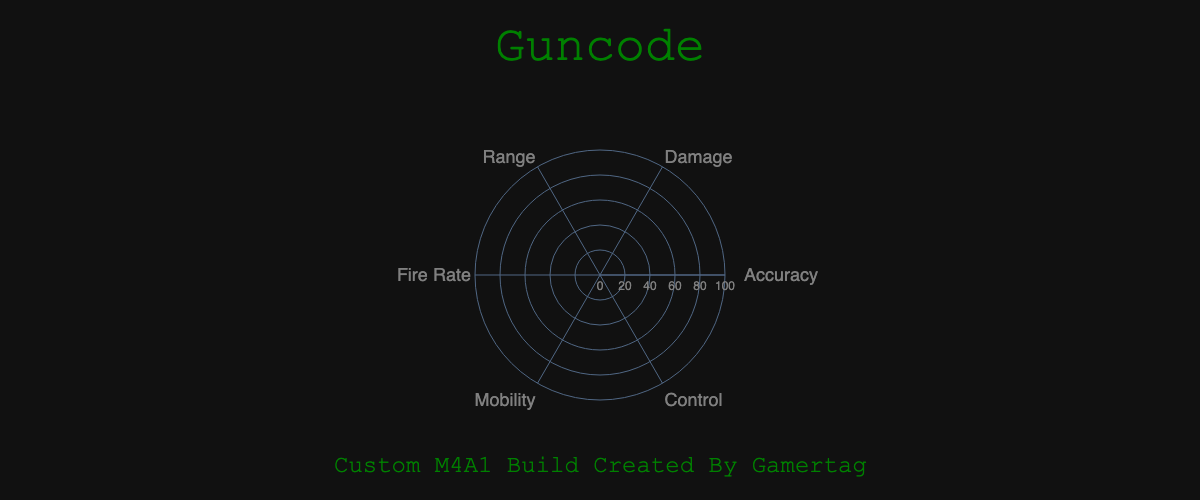
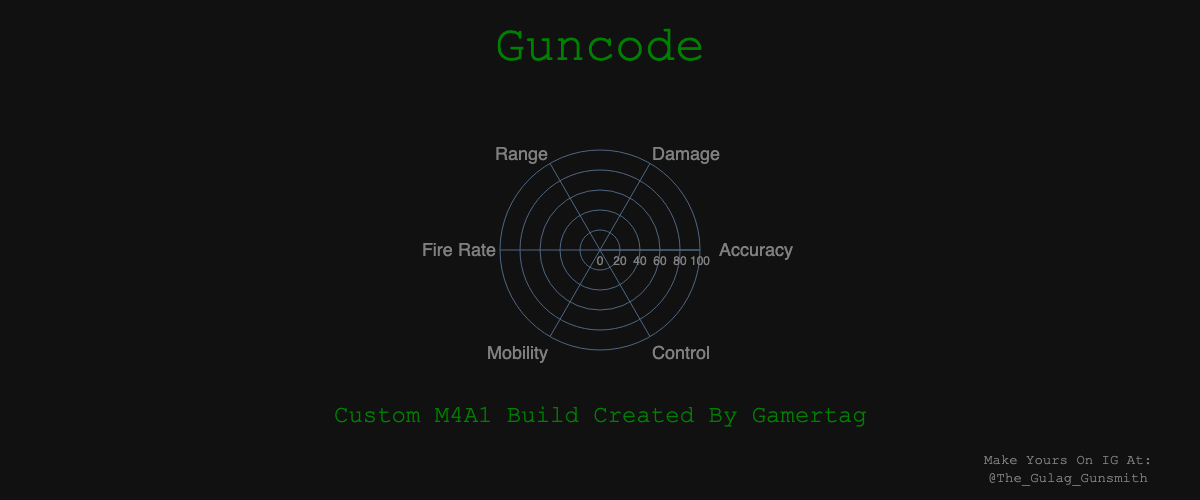
added watermark

diff --git a/graph2.py b/graph2.py
@@ -90,7 +90,7 @@ def make_graph(original = m4base, updated = upgrade, gun = "M4A1", gamertag = "G
             color = "gray"
             ),
         margin = {'t':150,
-                  'b':100
+                  'b':150
                 },
         polar = dict(
             radialaxis = dict(showticklabels = True, 
@@ -114,6 +114,22 @@ def make_graph(original = m4base, updated = upgrade, gun = "M4A1", gamertag = "G
                     color = "green",
                 ),
                 yshift = -50,
+            ),
+
+            go.layout.Annotation(
+                showarrow = False,
+                text = 'Make Yours On IG At:<br>@The_Gulag_Gunsmith',
+                xanchor = 'center',
+                x = 0.95,
+                yanchor = 'top',
+                y = 0,
+                font = dict(
+                    family = "Courier New, monospace",
+                    size = 14,
+                    color = "gray",
+                ),
+                yshift = -100,
+                align = "center",
             )
         ]
     )
@@ -139,9 +155,9 @@ def make_table(original = m4base, updated = upgrade, gun = "M4A1", gamertag = "G
                 font = dict(size = 14,
                             color = "black"),
                 height = 30,
-                align="center",
-                fill_color=[
-                    ["rgba(100,149,237, 0.85)"] * 8,
+                align = "center",
+                fill_color = [
+                    ["rgba(100, 149, 237, 0.85)"] * 8,
                 ]
             ),
             cells = dict(
